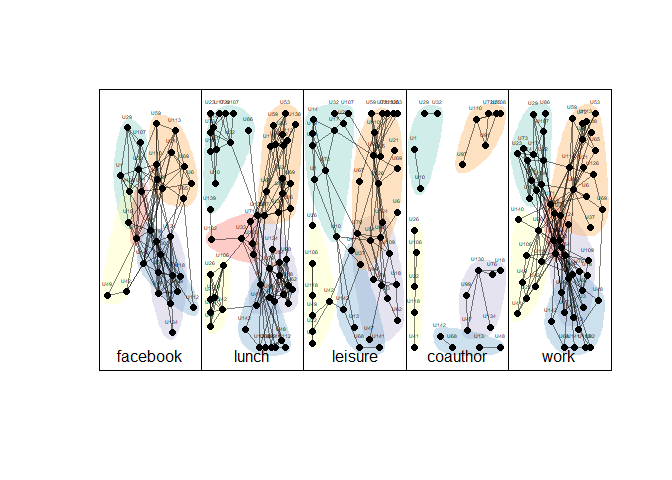
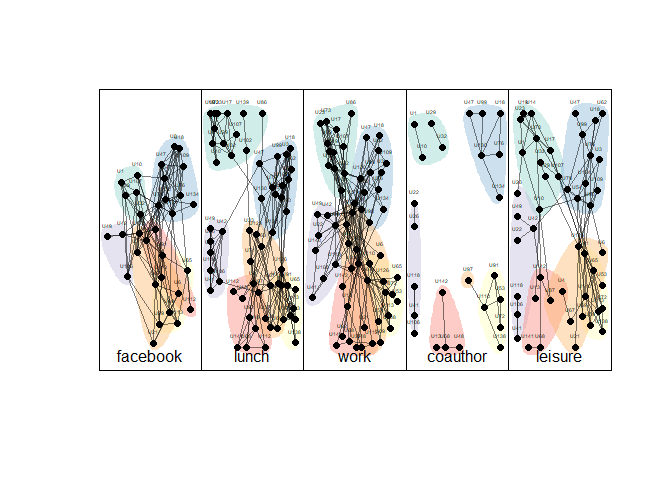
date

Changed region(s): [[0.125, 0.1875, 0.9062, 0.7812]]

diff --git a/README.md b/README.md
@@ -1,5 +1,6 @@
 Analyse de réseaux multiplexes avec R - le package multinet
 ================
+novembre, 2022
 
 *Paul Gourdon et Laurent Beauguitte (UMR Géographie-cités)*
 
@@ -87,7 +88,7 @@ library(multinet)
 
 net <- ml_aucs()
 layers_ml(net)
-#> [1] "facebook" "lunch"    "leisure"  "coauthor" "work"
+#> [1] "facebook" "lunch"    "work"     "coauthor" "leisure"
 net
 #> ml-net[61, 5, 224, 620 (620,0)]
 ```
@@ -421,7 +422,7 @@ data.frame(actor = as.character(names(top_degc)),
 #> 4      4    3    2       1        2    8
 #> 5      5    1    4       1        1    7
 #> 41    41    7    0       0        0    7
-#> 11    11    5    0       1        0    6
+#> 7      7    4    2       0        0    6
 ```
 
 Il est possible de calculer des distances en prenant en compte la
@@ -463,9 +464,9 @@ c’est-à-dire non-dominés.
 # calcul des non-dominated path lengths entre deux sommets 
 subset(distance_ml(net,from = "U54",to = "U41", method="multiplex"), 
        lunch == 1 & facebook == 2 | work == 3)
-#>    from  to facebook lunch leisure coauthor work
-#> 1   U54 U41        2     1       0        0    0
-#> 22  U54 U41        0     0       0        0    3
+#>    from  to facebook lunch work coauthor leisure
+#> 1   U54 U41        2     1    0        0       0
+#> 17  U54 U41        0     0    3        0       0
 ```
 
 L’exemple ci-dessus montre 2 chemins non-dominés entre `U54` et `U41` de
@@ -493,12 +494,12 @@ multiplexe (selon la pondération affectée aux liens dans les couches).
 # comprenant uniquement 2 liens dans la couche facebook
 subset(distance_ml(net,from = "U54",to = "U41", method="multiplex"),
        facebook == 2 )
-#>    from  to facebook lunch leisure coauthor work
-#> 1   U54 U41        2     1       0        0    0
-#> 14  U54 U41        2     0       2        0    0
-#> 15  U54 U41        2     0       1        1    0
-#> 18  U54 U41        2     0       0        1    1
-#> 27  U54 U41        2     0       0        3    0
+#>    from  to facebook lunch work coauthor leisure
+#> 1   U54 U41        2     1    0        0       0
+#> 3   U54 U41        2     0    1        1       0
+#> 20  U54 U41        2     0    0        3       0
+#> 24  U54 U41        2     0    0        1       1
+#> 25  U54 U41        2     0    0        0       2
 ```
 
 ### 2.3. Comparaison des couches
@@ -517,12 +518,12 @@ couches sont dissemblables).
 ``` r
 #comparaison distribution degré
 layer_comparison_ml(net, method = "jeffrey.degree")
-#>           facebook     lunch   leisure  coauthor      work
-#> facebook 0.0000000 0.4207678 1.0177980 2.0214010 0.7106788
-#> lunch    0.4207678 0.0000000 1.3288250 2.8966530 0.8372414
-#> leisure  1.0177980 1.3288250 0.0000000 0.4521076 0.2118452
-#> coauthor 2.0214010 2.8966530 0.4521076 0.0000000 0.5917494
-#> work     0.7106788 0.8372414 0.2118452 0.5917494 0.0000000
+#>           facebook     lunch      work  coauthor   leisure
+#> facebook 0.0000000 0.4207678 0.7106788 2.0214010 1.0177980
+#> lunch    0.4207678 0.0000000 0.8372414 2.8966530 1.3288250
+#> work     0.7106788 0.8372414 0.0000000 0.5917494 0.2118452
+#> coauthor 2.0214010 2.8966530 0.5917494 0.0000000 0.4521076
+#> leisure  1.0177980 1.3288250 0.2118452 0.4521076 0.0000000
 ```
 
 Ainsi, dans cet exemple la distribution des degrés dans la couche `work`
@@ -536,12 +537,12 @@ alignée du réseau multiplexe, on ajoute des sommets isolés de degré 0.
 ``` r
 #comparaison distribution degré sur la version alignée du réseau net
 layer_comparison_ml(net_aligned, method = "jeffrey.degree")
-#>              lunch  coauthor  facebook   leisure      work
-#> lunch    0.0000000 3.4654016 1.4143833 1.6748765 0.3830254
-#> coauthor 3.4654016 0.0000000 0.4799452 0.7262190 1.3307614
-#> facebook 1.4143833 0.4799452 0.0000000 0.2754121 0.1817213
-#> leisure  1.6748765 0.7262190 0.2754121 0.0000000 0.2961610
-#> work     0.3830254 1.3307614 0.1817213 0.2961610 0.0000000
+#>           facebook  coauthor     lunch   leisure      work
+#> facebook 0.0000000 0.4799452 1.4143833 0.2754121 0.1817213
+#> coauthor 0.4799452 0.0000000 3.4654016 0.7262190 1.3307614
+#> lunch    1.4143833 3.4654016 0.0000000 1.6748765 0.3830254
+#> leisure  0.2754121 0.7262190 1.6748765 0.0000000 0.2961610
+#> work     0.1817213 1.3307614 0.3830254 0.2961610 0.0000000
 ```
 
 - Corrélation entre les degrés :
@@ -598,12 +599,12 @@ matrice est remplie de 1.*
 ``` r
 #mêmes liens entre mêmes paires de sommets
 layer_comparison_ml(net, method="jaccard.edges")
-#>            facebook      lunch   leisure   coauthor       work
-#> facebook 1.00000000 0.17843866 0.1584699 0.05839416 0.18656716
-#> lunch    0.17843866 1.00000000 0.2772727 0.06467662 0.33910035
-#> leisure  0.15846995 0.27727273 1.0000000 0.10101010 0.20512821
-#> coauthor 0.05839416 0.06467662 0.1010101 1.00000000 0.09137056
-#> work     0.18656716 0.33910035 0.2051282 0.09137056 1.00000000
+#>            facebook      lunch       work   coauthor   leisure
+#> facebook 1.00000000 0.17843866 0.18656716 0.05839416 0.1584699
+#> lunch    0.17843866 1.00000000 0.33910035 0.06467662 0.2772727
+#> work     0.18656716 0.33910035 1.00000000 0.09137056 0.2051282
+#> coauthor 0.05839416 0.06467662 0.09137056 1.00000000 0.1010101
+#> leisure  0.15846995 0.27727273 0.20512821 0.10101010 1.0000000
 ```
 
 Ici les deux couches possédant le plus de liens en commun sont les
@@ -616,12 +617,12 @@ mais sur les triangles (triades).
 ``` r
 #mêmes triangles entre mêmes ensemble de 3 sommets
 layer_comparison_ml(net, method="jaccard.triangles")
-#>             facebook       lunch    leisure    coauthor        work
-#> facebook 1.000000000 0.069053708 0.02369668 0.005813953 0.046448087
-#> lunch    0.069053708 1.000000000 0.10861423 0.007968127 0.151741294
-#> leisure  0.023696682 0.108614232 1.00000000 0.000000000 0.074074074
-#> coauthor 0.005813953 0.007968127 0.00000000 1.000000000 0.009259259
-#> work     0.046448087 0.151741294 0.07407407 0.009259259 1.000000000
+#>             facebook       lunch        work    coauthor    leisure
+#> facebook 1.000000000 0.069053708 0.046448087 0.005813953 0.02369668
+#> lunch    0.069053708 1.000000000 0.151741294 0.007968127 0.10861423
+#> work     0.046448087 0.151741294 1.000000000 0.009259259 0.07407407
+#> coauthor 0.005813953 0.007968127 0.009259259 1.000000000 0.00000000
+#> leisure  0.023696682 0.108614232 0.074074074 0.000000000 1.00000000
 ```
 
 ### 2.4. Détection de communautés
@@ -649,36 +650,36 @@ com4 <- infomap_ml(net)
 
 #crée dataframe : sommet, couche, communauté
 head(com2, 6) 
-#>   actor   layer cid
-#> 1   U59 leisure   0
-#> 2   U59    work   0
-#> 3  U113 leisure   0
-#> 4  U113    work   0
-#> 5  U110 leisure   0
-#> 6  U110    work   0
+#>   actor    layer cid
+#> 1  U107 facebook   0
+#> 2  U107    lunch   0
+#> 3  U107     work   0
+#> 4   U29 facebook   0
+#> 5   U29    lunch   0
+#> 6   U29     work   0
 
 #nb communautés et taille selon l'algo choisi
 table(com1$cid)
 #> 
 #>  0  1  2  3  4 
-#> 59 28 40 53 44
+#> 44 69 53 30 28
 #table(com2$cid)
 #table(com3$cid)
 table(com4$cid)
 #> 
 #>  0  1  2  3  4  5 
-#> 43 30 53 11 28 59
+#> 44 34 30 28 53 35
 
 #indicateurs
 modularity_ml(net, com1, gamma = 1, omega = 1)
-#> [1] 0.5238051
+#> [1] 0.5179276
 #
 
 #comparaison entre deux partitions 1 - 4
 nmi_ml(net, com1, com4)
-#> [1] 0.958151
+#> [1] 0.9356737
 omega_index_ml(net, com1, com4)
-#> [1] 0.9560509
+#> [1] 0.8491974
 ```
 
 Trois indicateurs peuvent être calculés pour évaluer la qualité des
@@ -738,13 +739,13 @@ taille des liens selon leur poids.
 ``` r
 # créer une couche valuée à partir de work, facebook et lunch
 layers_ml(net)
-#> [1] "facebook" "lunch"    "leisure"  "coauthor" "work"
+#> [1] "facebook" "lunch"    "work"     "coauthor" "leisure"
 
 flatten_ml(net, new.layer = "wfl", layers = c("work", "facebook", "lunch"),
                    method = "weighted", force.directed = FALSE, all.actors = FALSE)
 
 layers_ml(net)
-#> [1] "facebook" "lunch"    "leisure"  "coauthor" "work"     "wfl"
+#> [1] "facebook" "lunch"    "work"     "coauthor" "leisure"  "wfl"
 
 attributes_ml(net, target = "edge")
 #>   layer   name   type
